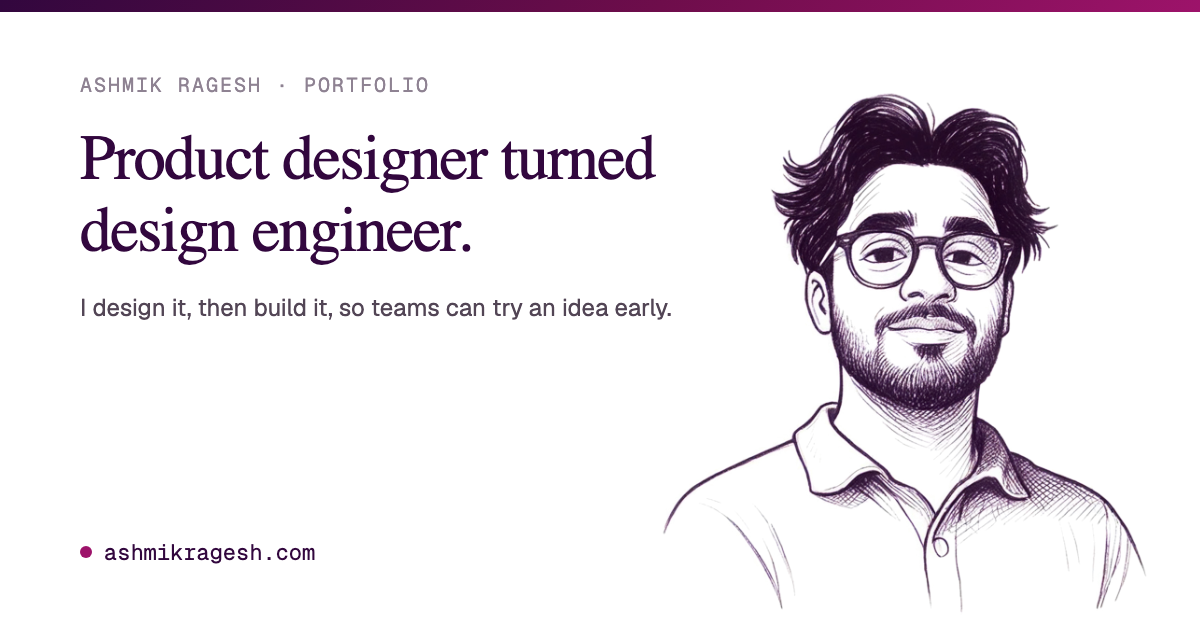
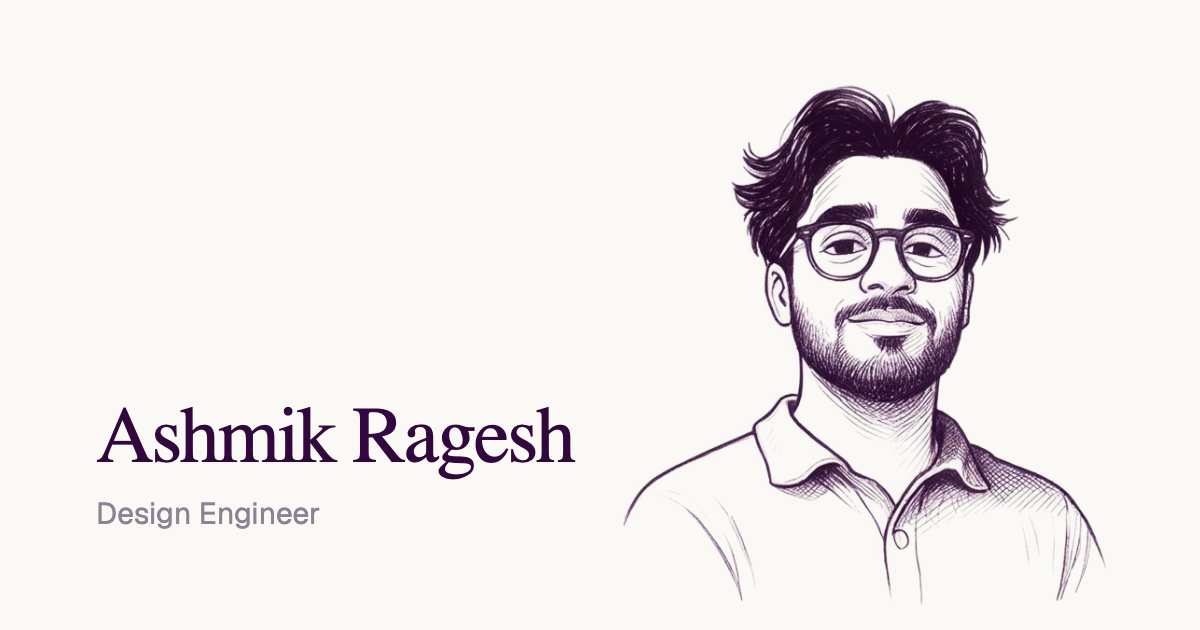
Link preview: minimal image (name, role, portrait) and description matching the hero

diff --git a/scripts/og-image.html b/scripts/og-image.html
@@ -1,5 +1,7 @@
 <!doctype html>
 <!-- The link-preview image (src/app/opengraph-image.png and twitter-image.png), 1200x630.
+     Kept minimal on purpose, like other designers' previews: one flat background, the name,
+     the role and the portrait sketch. No tagline, address or texture.
      To change it, edit this file, then from the repo root run:
      "/Applications/Google Chrome.app/Contents/MacOS/Google Chrome" --headless=new --hide-scrollbars --allow-file-access-from-files --window-size=1200,630 --virtual-time-budget=3000 --screenshot=src/app/opengraph-image.png "file://$PWD/scripts/og-image.html"
      and copy the result to src/app/twitter-image.png. -->
@@ -9,26 +11,21 @@
 <style>
   @font-face { font-family: Serif; src: url("../src/app/fonts/source-serif-4-latin-wght-normal.woff2") format("woff2"); font-weight: 200 900; }
   @font-face { font-family: Geist; src: url("../src/app/fonts/Geist-Variable.woff2") format("woff2"); font-weight: 100 900; }
-  @font-face { font-family: Mono; src: url("../src/app/fonts/GeistMono-Variable.woff2") format("woff2"); font-weight: 100 900; }
-  html, body { margin: 0; width: 1200px; height: 630px; overflow: hidden; background: #fff; }
-  .card { position: relative; width: 1200px; height: 630px; box-sizing: border-box; padding: 72px 80px; }
-  .eyebrow { font-family: Mono; font-size: 20px; letter-spacing: 2px; text-transform: uppercase; color: #8e8292; }
-  h1 { font-family: Serif; font-weight: 400; font-size: 64px; line-height: 72px; letter-spacing: -1.6px; color: #32073e; margin: 24px 0 0; max-width: 640px; }
-  p { font-family: Geist; font-size: 24px; line-height: 36px; color: #524555; margin: 24px 0 0; max-width: 680px; }
-  .url { position: absolute; left: 80px; bottom: 64px; font-family: Mono; font-size: 22px; color: #32073e; display: flex; align-items: center; gap: 12px; }
-  .dot { width: 12px; height: 12px; border-radius: 6px; background: #9D136A; }
-  .portrait { position: absolute; right: 24px; bottom: -8px; height: 560px; }
-  .band { position: absolute; left: 0; right: 0; top: 0; height: 12px; background: linear-gradient(120deg, #32073e 0%, #6e0d4b 55%, #9D136A 100%); }
+  html, body { margin: 0; width: 1200px; height: 630px; overflow: hidden; background: #fbf9f6; }
+  .card { position: relative; width: 1200px; height: 630px; }
+  .text { position: absolute; left: 96px; bottom: 96px; }
+  h1 { font-family: Serif; font-weight: 400; font-size: 80px; line-height: 84px; letter-spacing: -2.4px; color: #32073e; margin: 0; }
+  p { font-family: Geist; font-weight: 400; font-size: 30px; line-height: 40px; color: #8e8292; margin: 16px 0 0; }
+  img { position: absolute; right: 64px; bottom: 0; height: 560px; }
 </style>
 </head>
 <body>
   <div class="card">
-    <div class="band"></div>
-    <div class="eyebrow">Ashmik Ragesh · Portfolio</div>
-    <h1>Product designer turned design engineer.</h1>
-    <p>I design it, then build it, so teams can try an idea early.</p>
-    <div class="url"><span class="dot"></span>ashmikragesh.com</div>
-    <img class="portrait" src="../public/images/portrait-sketch-glasses-cutout.webp" alt="">
+    <div class="text">
+      <h1>Ashmik Ragesh</h1>
+      <p>Design Engineer</p>
+    </div>
+    <img src="../public/images/portrait-sketch-glasses-cutout.webp" alt="">
   </div>
 </body>
 </html>

diff --git a/src/app/layout.tsx b/src/app/layout.tsx
@@ -52,7 +52,7 @@ const SITE_URL =
       ? `https://${process.env.VERCEL_URL}`
       : "http://localhost:3000";
 
-const DESCRIPTION = "Product designer turned design engineer. I design it, then build it, so teams can try an idea early.";
+const DESCRIPTION = "Product designer turned design engineer. I design it, then build it in code, so teams can click through an idea before they commit to it.";
 
 export const metadata: Metadata = {
   metadataBase: new URL(SITE_URL),
